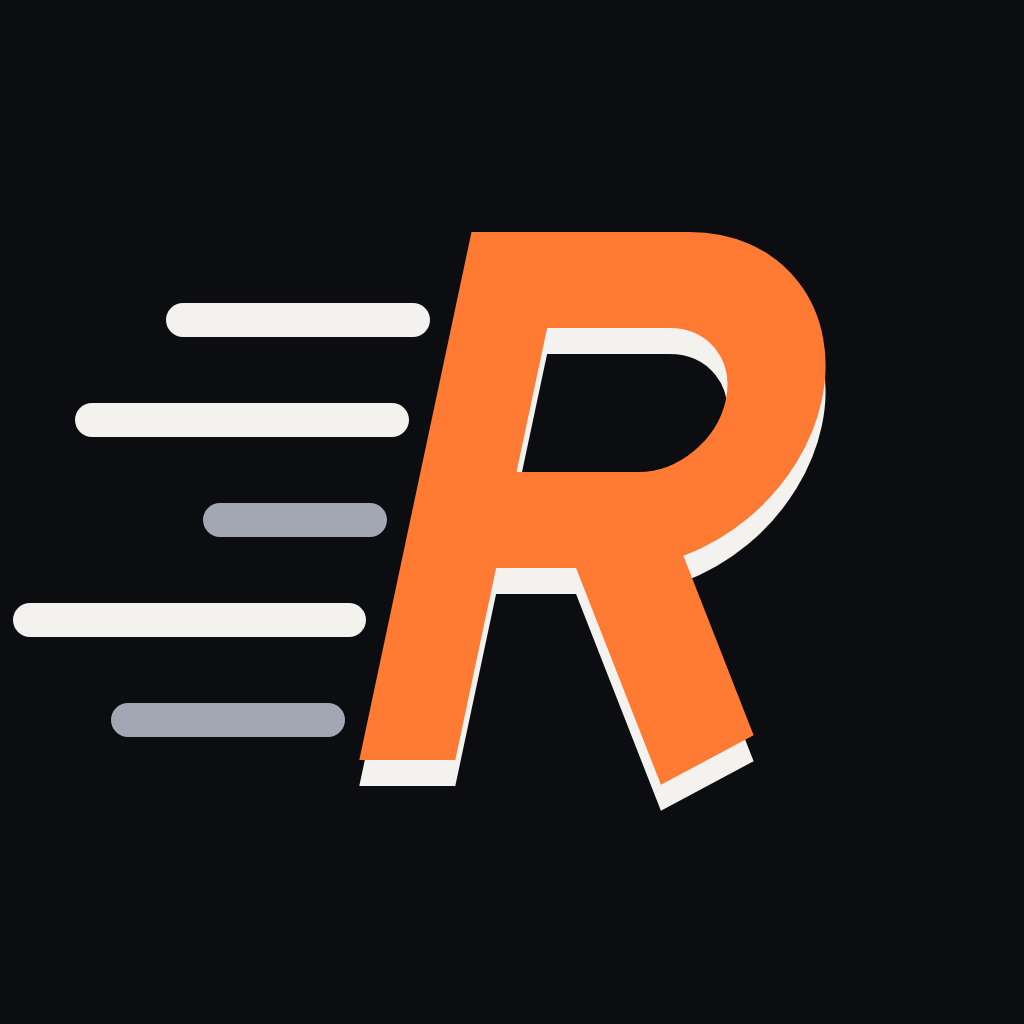
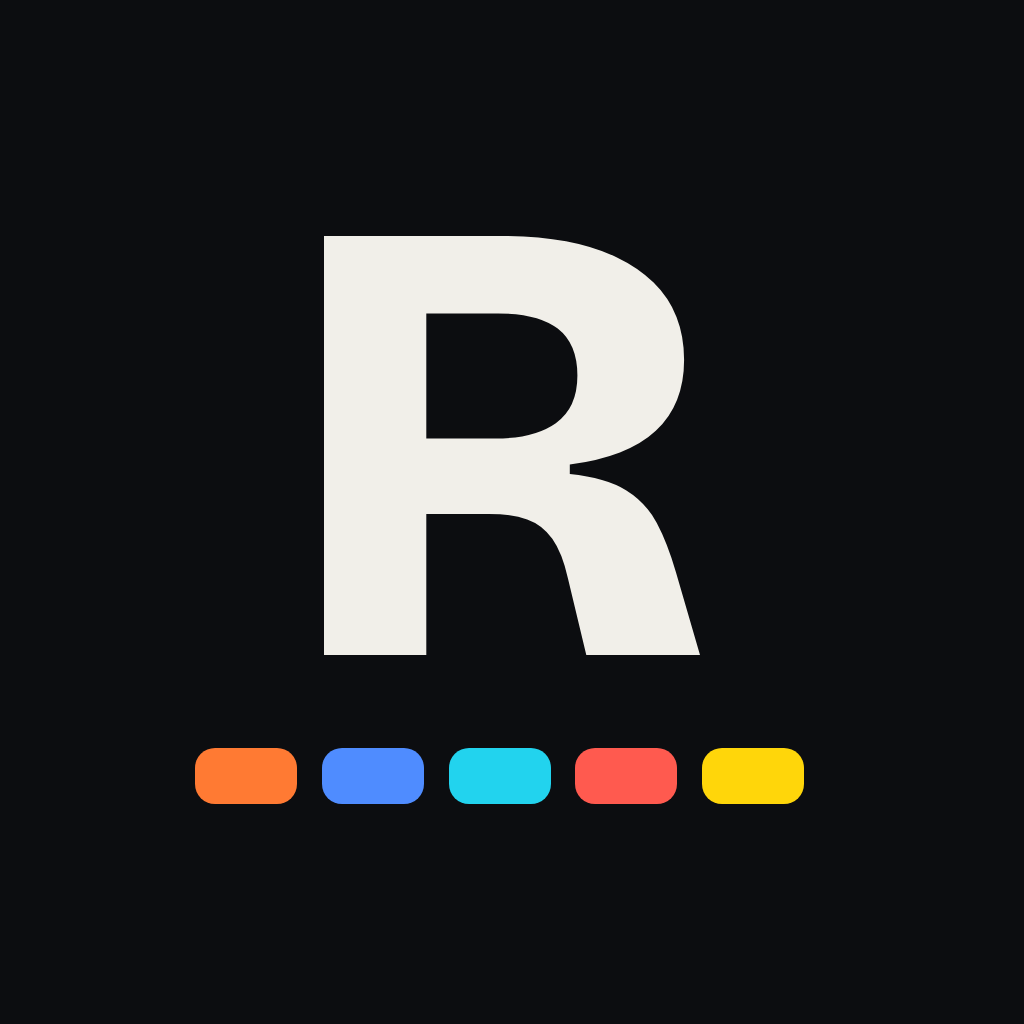
Nouvelle icône de l'app : grand R avec cinq barres de sport

Changed region(s): [[0.0, 0.2188, 0.8125, 0.8125]]

diff --git a/docs/native/IDENTITE.md b/docs/native/IDENTITE.md
@@ -93,14 +93,13 @@ Les polices sont embarquées dans l'app (aucun appel à Google). Le texte suit l
 
 ## 9. Icône de l'app
 
-Fichiers : `assets/icone/icone-rush.svg` (source), `icone-rush-1024.png` (export pour les stores, RVB sans canal alpha), `icone-courbe-sports-monochrome.svg` (variante une couleur).
+Fichiers (dans `native/assets/icone/`) : `icone-rush.svg` (source, le R est un tracé), `icone-rush-1024.png` (export pour les stores, RVB sans canal alpha), `icone-monochrome.svg` et `icone-monochrome-1024.png` (variante une couleur).
 
 - Fond `#0c0d10`, plein cadre, sans transparence (exigence de l'App Store). Carré 1024×1024, les coins sont arrondis par le système.
-- Au centre, une **courbe de charge en dents de scie** : cinq segments, un par sport, dans l'ordre course `#ff7a33`, vélo `#4f8cff`, natation `#22d3ee`, muscu `#ff5a4f`, hybride `#ffd60a`. Elle met l'idée centrale de l'app en image : la couleur désigne le sport.
-- Chaque segment est un polygone ; les jonctions suivent la bissectrice de l'angle (coupure nette, pas de biais).
-- Derrière, quatorze fines traînées horizontales `#272b35` de longueurs variées (impression de mouvement). Elles restent derrière la courbe et ne portent aucune information.
-- Variante monochrome (icône teintée d'iOS, icône thématique d'Android) : la courbe seule, en blanc sur noir, sans traînées.
-- Écran de démarrage : fond `fond`, la courbe seule, rien d'autre.
+- Au centre, un **grand R** en Bricolage Grotesque 800, couleur `#f1efe9`.
+- Dessous, **cinq barres arrondies**, une par sport, dans l'ordre course `#ff7a33`, vélo `#4f8cff`, natation `#22d3ee`, muscu `#ff5a4f`, hybride `#ffd60a`. Elles mettent l'idée centrale de l'app en image : la couleur désigne le sport.
+- Variante monochrome (icône teintée d'iOS, icône thématique d'Android) : R et barres en blanc sur noir.
+- Écran de démarrage : fond `fond`, rien d'autre.
 - Le dossard reste la signature **dans l'app** (§3), pas dans l'icône.
 
 ## 10. Interdits (rappel du CLAUDE.md)
